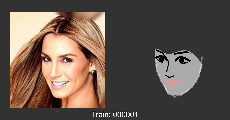
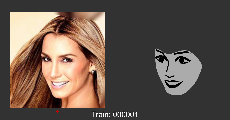
Made face base from face points

diff --git a/face.js b/face.js
@@ -36,6 +36,7 @@ function Face() {
   this.num_eyes = 2;    // can be either 1 (cyclops) or 2 (two eyes)
   this.eye_shift = -1;   // range is -10 to 10
   this.mouth_value = 1;  // range is 0.5 to 8
+  this.lash_scale = 2;
 
   // example of a function *inside* the face object.
   // this draws a segment, and do_loop will connect the ends if true
@@ -86,7 +87,7 @@ function Face() {
     // draw segments of face using points
     fill(128);
     stroke(128);
-    this.draw_segment(positions.chin);
+    //this.draw_segment(positions.chin);
 
     fill(100, 0, 100);
     stroke(100, 0, 100);
@@ -98,8 +99,8 @@ function Face() {
 
     fill(200, 0, 0);
     stroke(200, 0, 0);
-    this.draw_segment(positions.top_lip);
-    this.draw_segment(positions.bottom_lip);
+    //this.draw_segment(positions.top_lip);
+    //this.draw_segment(positions.bottom_lip);
 
     fill(255);
     stroke(255);
@@ -168,7 +169,6 @@ function Face() {
     stroke(0);
     noFill();
     strokeWeight(0.08);
-    print(abs(nose_tip[2][0] - nose_bridge[3][0]) );
     if(abs(nose_tip[2][0] - nose_bridge[3][0]) > 0.08){
       if(nose_tip[2][0] - nose_bridge[3][0] > 0){
         //line(nose_bridge[0][0],nose_bridge[0][1], nose_tip[0][0], nose_tip[0][1]);
@@ -224,11 +224,46 @@ function Face() {
       endShape();
     }
 
-   fill(255,1,1);
+    // lips
+    print(top_lip[9][1] - bottom_lip[9][1]);
+    fill(255,0,0);
     noStroke();
-    //ellipse(top_lip[11][0],top_lip[11][1],0.1);
-
-
+    if(abs(top_lip[9][1] - bottom_lip[9][1]) < 0.1){
+      beginShape();
+        for(let i = 0; i< int(top_lip.length/2) ; i++){
+          vertex(top_lip[i][0], top_lip[i][1]);
+        }
+        for(let i = 0; i< int(bottom_lip.length/2) ; i++){
+          vertex(bottom_lip[i][0], bottom_lip[i][1]);
+        }
+      endShape();
+    }
+    else{
+      push();
+      noStroke();
+      fill(0);
+      beginShape();
+        curveVertex(top_lip[top_lip.length-1][0], top_lip[top_lip.length-1][1]);
+        for(let i = 0; i <top_lip.length; i++){
+          curveVertex(top_lip[i][0], top_lip[i][1]);
+        }
+        curveVertex(top_lip[0][0], top_lip[0][1]);
+        curveVertex(top_lip[1][0], top_lip[1][1]);
+      endShape();
+    pop();
+    push();
+      noStroke();
+      fill(0);
+      beginShape();
+        curveVertex(bottom_lip[bottom_lip.length-1][0], bottom_lip[bottom_lip.length-1][1]);
+        for(let i = 0; i <bottom_lip.length; i++){
+          curveVertex(bottom_lip[i][0], bottom_lip[i][1]);
+        }
+        curveVertex(bottom_lip[0][0], bottom_lip[0][1]);
+        curveVertex(bottom_lip[1][0], bottom_lip[1][1]);
+      endShape();
+    pop();
+    }
 
 
     // eyebrows
@@ -268,7 +303,7 @@ function Face() {
 
     let left_eye_pos = segment_average(positions.left_eye);
     let right_eye_pos = segment_average(positions.right_eye);
-    let lash_scale = 0.08;
+    //let lash_scale = 0.08;
 
     ///// right eye /////////
     push();
@@ -280,7 +315,7 @@ function Face() {
       let tempRX = right_eye[3][0] + 0.05;
       beginShape();
         stroke(0);
-        strokeWeight(lash_scale);
+        strokeWeight(this.lash_scale * 0.04);
         noFill();
         curveVertex(right_eye[0][0], right_eye[0][1]);
         curveVertex(right_eye[0][0], right_eye[0][1]);
@@ -335,7 +370,7 @@ function Face() {
       // endShape();
       noFill();
       stroke(0);
-      strokeWeight(lash_scale);
+      strokeWeight(this.lash_scale * 0.04);
         beginShape();
         curveVertex(tempX - 0.05,tempY);
         curveVertex(tempX - 0.05,tempY);
@@ -372,6 +407,7 @@ function Face() {
   /* set internal properties based on list numbers 0-100 */
   this.setProperties = function(settings) {
     // eye col?
+    this.lash_scale = int(map(settings[0], 0, 100, 1, 2));
     this.num_eyes = int(map(settings[0], 0, 100, 1, 2));
     this.eye_shift = map(settings[1], 0, 100, -2, 2);
     this.mouth_value = map(settings[2], 0, 100, 0.5, 8);
@@ -380,7 +416,7 @@ function Face() {
   /* get internal properties as list of numbers 0-100 */
   this.getProperties = function() {
     let settings = new Array(3);
-    settings[0] = map(this.num_eyes, 1, 2, 0, 100);
+    settings[0] = map(this.lash_scale, 1, 2, 0, 100);
     settings[1] = map(this.eye_shift, -2, 2, 0, 100);
     settings[2] = map(this.mouth_value, 0.5, 8, 0, 100);
     return settings;
